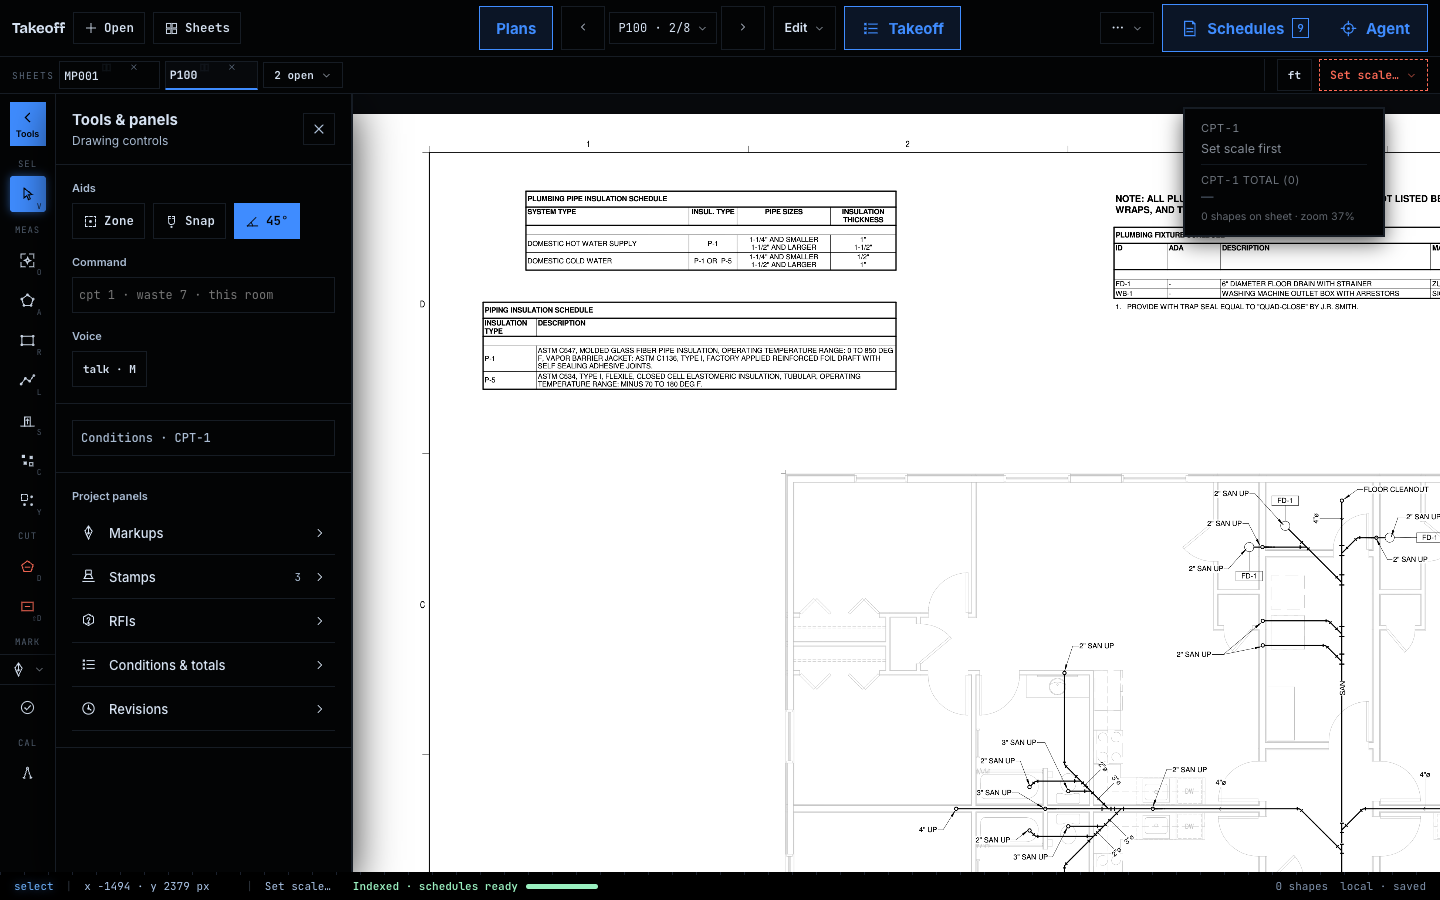
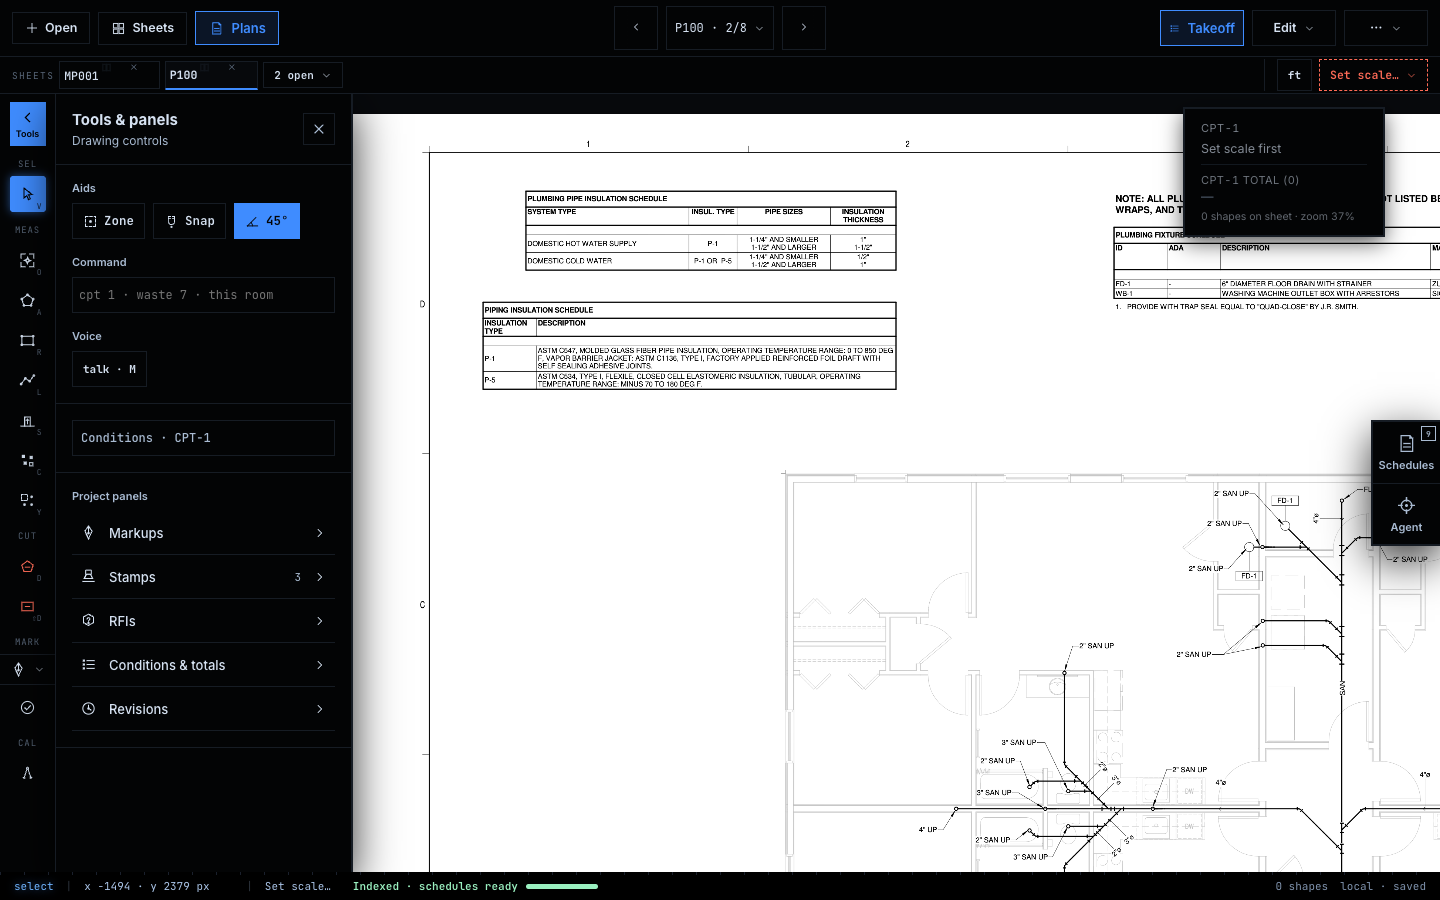
UI: refine primary canvas navigation

diff --git a/opentakeoff/web/src/styles/workspace.css b/opentakeoff/web/src/styles/workspace.css
@@ -13,42 +13,35 @@
 .workspace-file-nav { justify-self: start; gap: var(--sp-2); }
 .workspace-center-nav { justify-self: center; justify-content: center; gap: var(--sp-2); }
 .workspace-workflow-nav { justify-self: end; justify-content: flex-end; gap: var(--sp-2); }
-.workspace-center-nav > [data-workspace-nav="Plans"] {
+.workspace-file-nav > button {
   display: inline-flex; align-items: center; justify-content: center;
-  min-height: var(--topbar-h); padding: var(--sp-2) var(--sp-4);
-  border: var(--rule-soft); background: var(--paper-bright); color: var(--ink-soft);
-  font: 650 var(--fs-l) var(--f-body);
+  gap: var(--sp-2); min-height: var(--ctl-l); padding: var(--sp-2) var(--sp-3) !important;
+  border: var(--rule-soft); background: transparent; color: var(--ink);
+  font: 600 var(--fs-m) var(--f-body); white-space: nowrap;
 }
-.workspace-center-nav > [data-workspace-nav="Plans"][aria-pressed="true"] { border-color: var(--cobalt); background: var(--tint-select); color: var(--cobalt); }
-.workspace-center-nav > span { flex-shrink: 0; }
+.workspace-file-nav > button:hover { background: var(--tint-select) !important; }
+.workspace-file-nav > [data-workspace-nav="Plans"] { width: 84px; box-sizing: border-box; }
+.workspace-file-nav > [data-workspace-nav="Plans"][aria-pressed="true"] { border-color: var(--cobalt); background: var(--tint-select); color: var(--cobalt); }
+.workspace-center-nav > span { flex-shrink: 0; gap: var(--sp-2) !important; }
 .workspace-center-nav > span > button,
+.workspace-center-nav > span > span > button,
 .workspace-center-nav .workspace-tool-cluster button,
 .workspace-center-nav .workspace-tool-cluster select { min-height: var(--topbar-h); }
 .workspace-center-nav > span > button { min-width: var(--topbar-h); }
 .workspace-center-nav .workspace-tool-cluster > span:last-child { gap: 0 !important; }
-.workspace-center-nav [name="open-takeoff"] {
-  display: inline-flex; align-items: center; justify-content: center; gap: var(--sp-2);
-  min-height: var(--topbar-h); padding: var(--sp-2) var(--sp-4) !important;
-  border: 1px solid var(--cobalt) !important; background: var(--tint-select) !important;
-  color: var(--cobalt) !important; font: 650 var(--fs-l) var(--f-body) !important;
-  letter-spacing: normal !important; text-transform: none !important;
-}
-.workspace-center-nav [name="open-takeoff"][aria-pressed="true"] { background: var(--cobalt) !important; color: var(--accent-contrast) !important; }
-.workspace-center-nav [name="open-takeoff"] small { font: 600 var(--fs-xs) var(--f-mono); }
 .workspace-topbar button, .workspace-topbar select, .workspace-topbar input { min-height: var(--ctl-m); }
 .workspace-tool-cluster { flex-direction: row !important; align-items: center !important; gap: var(--sp-1) !important; }
 .workspace-tool-cluster > span:first-child { display: none; }
 .workspace-tool-cluster[data-context-label] { flex-direction: column !important; }
 .workspace-tool-cluster[data-context-label] > span:first-child { display: block; }
 .workspace-primary {
-  display: flex; align-items: stretch; gap: var(--sp-1); margin: 0;
-  background: var(--tint-select); padding: var(--sp-1); border: 1px solid var(--cobalt);
+  display: flex; align-items: stretch; margin: 0;
 }
 .workspace-primary button {
   display: inline-flex; align-items: center; justify-content: center; gap: var(--sp-2);
-  min-height: var(--ctl-l); min-width: calc(var(--sp-8) * 3); padding: var(--sp-2) var(--sp-3) !important;
-  border: 1px solid transparent !important; background: transparent !important;
-  color: var(--cobalt) !important; font: 650 var(--fs-l) var(--f-body) !important;
+  width: 84px; min-height: var(--ctl-l); min-width: 0; padding: var(--sp-2) var(--sp-2) !important;
+  border: 1px solid var(--cobalt) !important; background: var(--tint-select) !important;
+  color: var(--cobalt) !important; font: 600 var(--fs-m) var(--f-body) !important;
   letter-spacing: normal !important; text-transform: none !important;
   white-space: nowrap;
 }
@@ -56,6 +49,11 @@
 .workspace-primary button:hover:not([aria-pressed="true"]) { background: var(--paper-bright) !important; }
 .workspace-primary small { font: 600 var(--fs-xs) var(--f-mono); padding: 2px var(--sp-1); border: 1px solid currentColor; }
 .workspace-primary button:disabled { opacity: .5; }
+.workspace-workflow-nav > .workspace-tool-cluster > span:last-child > span > button,
+[data-topbar-pinned] > span:first-child > button {
+  width: 84px; min-width: 84px; min-height: var(--ctl-l); box-sizing: border-box;
+  justify-content: center;
+}
 .workspace-properties-toggle, .workspace-dock button, .workspace-dock select {
   min-height: var(--ctl-m); min-width: var(--ctl-m);
 }
@@ -79,6 +77,27 @@
 .workspace-condition-tools button, .workspace-condition-tools input, .workspace-condition-tools select { min-height: var(--ctl-s); }
 .workspace-drawing { min-width: 0; }
 .workspace-body { isolation: isolate; }
+.workspace-action-rail {
+  position: absolute; z-index: 12; top: 50%; right: 0; width: 68px;
+  transform: translateY(-50%); display: flex; flex-direction: column;
+  box-shadow: var(--shadow-2);
+}
+.workspace-action-rail button {
+  position: relative; display: flex; flex-direction: column; align-items: center; justify-content: center;
+  gap: var(--sp-1); min-width: 0; min-height: 62px; padding: var(--sp-2) 2px;
+  border: var(--rule-soft); border-right: 0; border-bottom: 0;
+  background: var(--paper-bright); color: var(--ink-soft);
+  cursor: pointer; font: 600 var(--fs-xs) var(--f-body);
+}
+.workspace-action-rail button:last-child { border-bottom: var(--rule-soft); }
+.workspace-action-rail button:hover { border-color: var(--cobalt); background: var(--tint-select); color: var(--cobalt); }
+.workspace-action-rail button[aria-pressed="true"] { border-color: var(--cobalt); background: var(--cobalt); color: var(--accent-contrast); }
+.workspace-action-rail button:focus-visible { outline: 2px solid var(--ring-color); outline-offset: -2px; }
+.workspace-action-rail small {
+  position: absolute; top: 4px; right: 4px; display: grid; place-items: center;
+  min-width: 15px; height: 15px; padding-inline: 2px; border: 1px solid currentColor;
+  font: 600 8px var(--f-mono); text-align: center;
+}
 .workspace-utility-toggle {
   display: flex; flex-direction: column; align-items: center; justify-content: center;
   flex-shrink: 0; width: var(--ctl-l); min-height: var(--topbar-h); gap: 2px;
@@ -276,7 +295,7 @@
   .workspace-header-row { column-gap: var(--sp-2); }
   .workspace-file-nav, .workspace-center-nav, .workspace-workflow-nav { gap: var(--sp-1); }
   .workspace-primary button { min-width: 84px; padding-inline: var(--sp-2) !important; }
-  .workspace-center-nav > [data-workspace-nav="Plans"], .workspace-center-nav [name="open-takeoff"] { padding-inline: var(--sp-3) !important; }
+  .workspace-file-nav > button { padding-inline: var(--sp-2) !important; }
 }
 @media (max-width: 1199px) {
   .workspace-header-row { grid-template-columns: minmax(0,1fr) auto; row-gap: var(--sp-1); }
@@ -291,6 +310,7 @@
 @media (max-width: 900px) {
   .workspace-file-nav strong { display: none; }
   .workspace-primary button { min-width: 72px; }
+  .workspace-action-rail button { min-height: 62px; }
   .workspace-dock { min-width: 0; }
   .schedule-master-detail { grid-template-columns: 180px minmax(0,1fr); }
 }

diff --git a/opentakeoff/web/src/pages/TakeoffCanvas.jsx b/opentakeoff/web/src/pages/TakeoffCanvas.jsx
@@ -10617,7 +10617,6 @@ export default function TakeoffCanvas() {
       <div data-topbar className="workspace-topbar" style={{ display: "grid", padding: "6px 14px", borderBottom: "1px solid var(--ink-faint)", background: "var(--paper-bright)", whiteSpace: "nowrap" }}>
         <div data-topbar-deck="1" className="workspace-header-row" style={{ display: "grid", alignItems: "center", minWidth: 0 }}>
           <div className="workspace-file-nav">
-        <strong style={{ fontFamily: "var(--f-display)", fontSize: 15, color: "var(--ink)", letterSpacing: "-0.02em" }}>Takeoff</strong>
         <button type="button" onClick={() => fileInputRef.current?.click()} title="Open plans — PDF, image, or a .zip plan set (or just drag them onto the canvas)"
           style={{ display: "inline-flex", alignItems: "center", gap: 6, padding: "6px 10px", border: "1px solid var(--ink-faint)", background: "transparent", color: "var(--ink)", cursor: "pointer", fontWeight: 600, fontSize: 12.5, lineHeight: 1 }}>
           <Icon name="plus" size={14} />Open</button>
@@ -10626,9 +10625,12 @@ export default function TakeoffCanvas() {
           style={{ display: "inline-flex", alignItems: "center", gap: 6, padding: "6px 10px", border: `1px solid ${sheetGroup.length ? "var(--cobalt)" : "var(--ink-faint)"}`, background: sheetGroup.length ? "var(--cobalt)" : "transparent", color: sheetGroup.length ? "var(--paper-bright)" : "var(--ink)", cursor: "pointer", fontWeight: 600, fontSize: 12.5, lineHeight: 1 }}>
           <Icon name="sheets" size={15} />Sheets
         </button>
+        <button type="button" data-workspace-nav="Plans" aria-pressed={!schedulesOpen && !agentOpen && !showTakeoffData && !showReport}
+          onClick={() => { setAgentOpen(false); setSchedulesOpen(false); clearScheduleBrowseHighlights(); setView("canvas"); }}>
+          <Icon name="document" size={15} />Plans
+        </button>
           </div>
           <div data-topbar-scroll className="workspace-center-nav">
-          <button type="button" data-workspace-nav="Plans" aria-pressed={!schedulesOpen && !agentOpen && !showTakeoffData && !showReport} onClick={() => { setAgentOpen(false); setSchedulesOpen(false); clearScheduleBrowseHighlights(); setView("canvas"); }}>Plans</button>
         {sheets.length > 0 && (
           <span style={{ display: "inline-flex", alignItems: "center", gap: 4 }}>
             <button type="button" onClick={() => setPage((p) => Math.max(1, p - 1))} disabled={!!sheetGroup.length || page <= 1} title="Previous sheet"
@@ -10645,6 +10647,14 @@ export default function TakeoffCanvas() {
               style={{ padding: "5px 8px", border: "1px solid var(--ink-faint)", background: "transparent", color: "var(--ink)", cursor: "pointer", opacity: (!!sheetGroup.length || page >= pageCount) ? 0.4 : 1 }}><Icon name="chevronRight" size={12} /></button>
           </span>
         )}
+          </div>
+          <div className="workspace-workflow-nav">
+            <nav className="workspace-primary" aria-label="Workspace">
+          <button type="button" onClick={() => setShowTakeoffData(true)} name="open-takeoff" data-workspace-nav="Takeoff" aria-pressed={showTakeoffData}
+            title="Open Takeoff — finished takeoff + workflow aggregate from every Agent run, with CSV / Excel / PDF export.">
+            <Icon name="takeoffs" size={15} /><span>Takeoff</span>{(finishedTakeoffLineCount > 0 || agentTakeoffRows.length > 0) && <small>{finishedTakeoffLineCount || "data"}</small>}
+          </button>
+            </nav>
         {cluster("Edit", <>
           <ToolMenu
             title="Edit takeoffs"
@@ -10668,31 +10678,9 @@ export default function TakeoffCanvas() {
             ]}
           />
         </>)}
-        {/* name="open-takeoff", like sheet-file / agent-goal: the Playwright
-            driver used to reach for this with a text regex, which also matched
-            the rail's Takeoff button, picked the one the open Agent panel
-            covers, and hung 120s on click actionability before reporting the
-            Takeoff panel as broken. It was never broken. */}
-        <button onClick={() => setShowTakeoffData(true)} name="open-takeoff" data-workspace-nav="Takeoff" aria-pressed={showTakeoffData}
-          title="Open Takeoff — finished takeoff + workflow aggregate from every Agent run, with CSV / Excel / PDF export."
-          style={{
-            padding: "8px 14px", border: "none",
-            background: finishedTakeoffLineCount || agentTakeoffRows.length ? "var(--cobalt)" : "var(--ink-faint)",
-            color: finishedTakeoffLineCount || agentTakeoffRows.length ? "var(--paper-bright)" : "var(--ink-muted)",
-            cursor: "pointer", fontWeight: 700, fontFamily: "var(--f-mono)", fontSize: 11,
-            letterSpacing: "0.12em", textTransform: "uppercase",
-          }}>
-          <Icon name="takeoffs" size={19} /><span>Takeoff</span>{(finishedTakeoffLineCount > 0 || agentTakeoffRows.length > 0) && <small>{finishedTakeoffLineCount || "data"}</small>}
-        </button>
-          </div>
-          <div className="workspace-workflow-nav">
         <span data-topbar-pinned style={{ display: "inline-flex", alignItems: "center", gap: 7, flexShrink: 0 }}>
         {renderTopbarPinned()}
         </span>
-            <nav className="workspace-primary" aria-label="Workspace">
-          <button type="button" data-workspace-nav="Schedules" aria-pressed={schedulesOpen} onClick={() => { setAgentOpen(false); setSchedulesOpen(true); }}><Icon name="document" size={19} /><span>Schedules</span>{graphTables.length > 0 && <small>{graphTables.length}</small>}</button>
-          <button type="button" data-workspace-nav="Agent" aria-pressed={agentOpen && !schedulesOpen} onClick={() => { setSchedulesOpen(false); clearScheduleBrowseHighlights(); setAgentOpen(true); }}><Icon name="target" size={19} /><span>Agent</span>{(agentRunning || agentProposals.length > 0) && <small>{agentRunning ? "running" : agentProposals.length + " pending"}</small>}</button>
-            </nav>
           </div>
         </div>
       </div>
@@ -12749,6 +12737,21 @@ export default function TakeoffCanvas() {
           clearSelectionRef={panelSelectionRef}
           {...panelHandlers}
         />
+
+        <nav className="workspace-action-rail" aria-label="Primary actions">
+          <button type="button" data-workspace-nav="Schedules" aria-pressed={schedulesOpen}
+            onClick={() => { setAgentOpen(false); setSchedulesOpen(true); }}>
+            <Icon name="document" size={21} />
+            <span>Schedules</span>
+            {graphTables.length > 0 && <small>{graphTables.length}</small>}
+          </button>
+          <button type="button" data-workspace-nav="Agent" aria-pressed={agentOpen && !schedulesOpen}
+            onClick={() => { setSchedulesOpen(false); clearScheduleBrowseHighlights(); setAgentOpen(true); }}>
+            <Icon name="target" size={21} />
+            <span>Agent</span>
+            {(agentRunning || agentProposals.length > 0) && <small>{agentRunning ? "live" : agentProposals.length}</small>}
+          </button>
+        </nav>
       </div>
 
       {/* Unified plan navigator — one surface for the plan-set gallery AND the

diff --git a/opentakeoff/docs/USER_GUIDE.md b/opentakeoff/docs/USER_GUIDE.md
@@ -10,9 +10,11 @@ In a hurry, or already in the app? Press **`?`** (or the **?** button in the top
 
 ### Workspace navigation
 
-The canvas header keeps **Open · Sheets** on the left; centers the larger
-**Plans · sheet navigation · Edit · Takeoff** controls; and anchors the highlighted
-**Schedules · Agent** group on the right. Plans returns to the drawing. Sheets opens
+The canvas header keeps **Open · Sheets · Plans** together on the left; centers the
+larger **sheet navigation** controls; and groups equal-sized **Takeoff · Edit · ⋯**
+controls at the upper right. **Schedules** and
+**Agent** are stacked as floating tabs at the center of the canvas's right edge. Plans
+returns to the drawing. Sheets opens
 the existing sheet gallery; the sheet strip still switches, groups and closes drawings.
 Units and scale live at the right end of that sheet strip.
 
@@ -795,7 +797,7 @@ The modal asks for an optional credit line and an attestation that you have the 
 
 ## 12a. The Schedules index
 
-Opening a plan set indexes it. Part of that pass reads every **schedule table** on every sheet — its printed title, its columns, its rows, and a box around each individual cell. The **Schedules** button in the top bar, next to *Sheets*, is where you look at what it found. It shows a count as soon as the pass finishes (*Schedules · 24*), and it is disabled while the pass is still running.
+Opening a plan set indexes it. Part of that pass reads every **schedule table** on every sheet — its printed title, its columns, its rows, and a box around each individual cell. The floating **Schedules** tab at the canvas's right edge is where you look at what it found. It shows a count as soon as the pass finishes (*Schedules · 24*), and it is disabled while the pass is still running.
 
 The panel docks on the right, beside the drawing rather than over it, because the point is to read a table and look at the sheet it came from at the same time.
 

diff --git a/opentakeoff/docs/ui-workspace/PRIMARY_TOOLBAR_REVIEW.md b/opentakeoff/docs/ui-workspace/PRIMARY_TOOLBAR_REVIEW.md
@@ -4,9 +4,12 @@ User-directed follow-up to #89. Baseline: `dec0151f` on main.
 
 ## Layout
 
-- Open and Sheets anchor the left side of one header row.
-- Plans, previous/current/next sheet, Edit and Takeoff form the larger centered navigation spine.
-- Schedules and Agent retain prominent labeled treatments on the far right.
+- Open, Sheets and Plans form one compact file-navigation group on the left.
+- Previous/current/next sheet form the larger centered navigation spine.
+- Equal-sized Takeoff, Edit and overflow controls form the upper-right action
+  group; the redundant product wordmark is removed.
+- Schedules and Agent are compact tabs stacked at the vertical center of the
+  canvas's right edge, floating over the workspace instead of claiming a column.
 - Units and scale moved to the far right of the sheet-tab row.
 - The left rail's Tools tab reveals a second column. Zone, Snap, angle guides,
   labels, Command, Voice and contextual Finish/Create actions moved here.
@@ -37,13 +40,13 @@ Agent and export handlers were not rewritten.
 
 ## Verification
 
-`playwright-workspace.mjs`: **190 checks passed**, zero browser errors.
+`playwright-workspace.mjs`: **206 checks passed**, zero browser errors.
 Sizes: 1280×800, 1440×900, 1920×1080 and 2560×1440. Includes original schedule
 headers/cells, citation payloads, Agent Run/Stop/proposal callbacks, resizing,
 focus mode, flyout positioning, draft retention, toggle state, utility routing
 and legacy report access. Light and HUD screenshots visually inspected.
 
-`npm run check`: passed typecheck, lint (existing warnings only), **2,533 tests**
+`npm run check`: passed typecheck, lint (existing warnings only), **2,559 tests**
 with 13 existing skips, the unchanged benchmark gates and production build.
 Additional UI regression results are recorded in the pull request.
 

diff --git a/opentakeoff/CHANGELOG.md b/opentakeoff/CHANGELOG.md
@@ -4,7 +4,7 @@ All notable changes to OpenTakeoff. Dates are release/merge dates on `main`.
 
 ## Unreleased — workspace presentation
 
-- Center the larger Plans, page, Edit and Takeoff controls between Open/Sheets on the left and a prominent Schedules/Agent group on the right. Move units and scale to the sheet-tab row.
+- Group compact Open, Sheets and Plans controls on the left; center the larger page navigation; group equal-sized Takeoff, Edit and overflow controls at the upper right; and float Schedules and Agent as a compact vertical pair at the center of the canvas's right edge. Remove the redundant product wordmark and move units and scale to the sheet-tab row.
 - Add a left-rail Tools tab that opens a second column for drafting controls, condition properties and the former right-edge utility panels. Preserve the drawing footprint, command drafts, original callbacks and keyboard shortcuts.
 - Remove Report from primary navigation; keep Takeoff exports and the legacy Measurement report in the overflow menu.
 - Give Schedules a sheet navigator, search/facets and full extracted-cell grids with internal scrolling.

diff --git a/opentakeoff/README.md b/opentakeoff/README.md
@@ -36,9 +36,11 @@ what makes it training data.
 
 ## Start here
 
-The canvas header keeps **Open · Sheets** on the left; centers the larger
-**Plans · sheet navigation · Edit · Takeoff** controls; and anchors the prominent
-**Schedules · Agent** group on the right. Units and scale sit on the sheet-tab row.
+The canvas header keeps the compact **Open · Sheets · Plans** file controls on the
+left, centers the larger **sheet navigation** controls, and groups equal-sized
+**Takeoff · Edit · ⋯** controls at the upper right. **Schedules**
+and **Agent** float as a compact vertical pair at the center of the canvas's right edge.
+Units and scale sit on the sheet-tab row.
 The left rail's **Tools** tab opens a second column for drawing settings,
 condition properties and project panels; it never resizes the drawing.
 Takeoff retains its exports; the legacy report is under **⋯ → Measurement report**.
